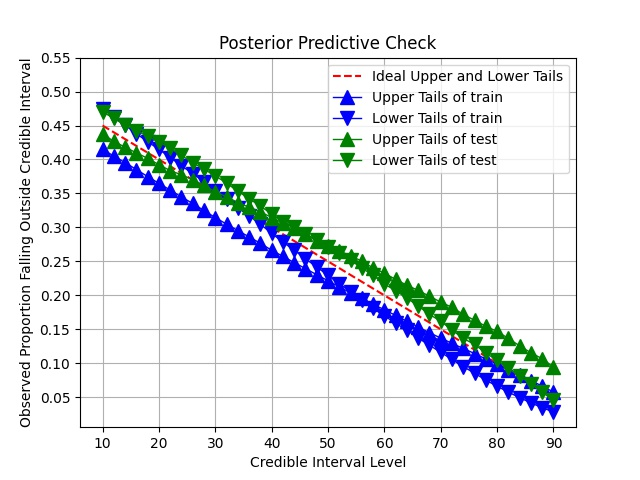
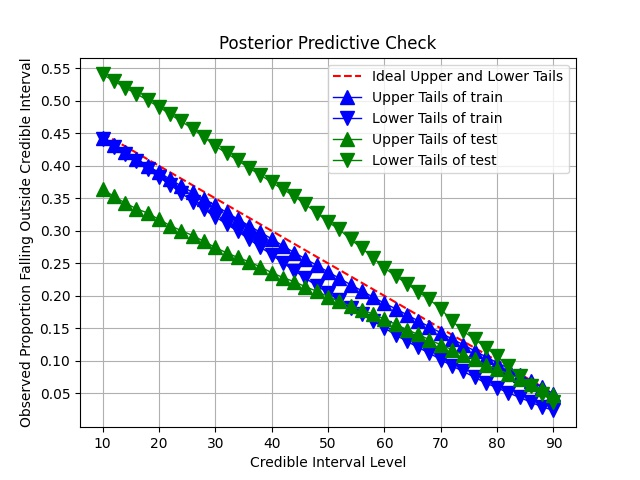
update

Changed region(s): [[0.0625, 0.0938, 0.9062, 0.875]]

diff --git a/project/main.py b/project/main.py
@@ -85,19 +85,27 @@ def run(fname,
                       mode='test')
     '''
 
-    test_forecast = multi_window.forecast(
-        model=feedback_model,
-        dataset_name='test',
-        samples=200
-    )
-
     train_forecast = multi_window.forecast(
         model=feedback_model,
         dataset_name='train',
         samples=200
     )
 
-    forecasts = [train_forecast, test_forecast]
+    val_forecast = multi_window.forecast(
+        model=feedback_model,
+        dataset_name='val',
+        samples=200
+    )
+
+    test_forecast = multi_window.forecast(
+        model=feedback_model,
+        dataset_name='test',
+        samples=200
+    )
+
+
+
+    forecasts = [train_forecast, test_forecast, val_forecast]
     post_checks = multi_window.plot_posterior_predictive_check(forecasts,
                                                                post_check_img)
 
@@ -107,12 +115,17 @@ def run(fname,
     '''
 
     multi_window.plot_global_forecast(
-        test_forecast,
+        train_forecast,
         save_path=global_save_img
     )
 
     multi_window.plot_global_forecast(
-        train_forecast,
+        val_forecast,
+        save_path=global_save_img
+    )
+
+    multi_window.plot_global_forecast(
+        test_forecast,
         save_path=global_save_img
     )
 
@@ -154,12 +167,12 @@ if __name__ == '__main__':
     t2v_units = 8
     dense_cells = 1
     resample = None
-    input_width = 90
-    out_steps = 30
+    input_width = 96
+    out_steps = 24
     max_epochs = 40
     patience = 3
-    latent_dim = None
-    beta = 1
+    latent_dim = 2
+    beta = 2
 
     run(fname,
         distribution,

diff --git a/project/WindowGenerator.py b/project/WindowGenerator.py
@@ -351,8 +351,6 @@ class WindowGenerator():
                          alpha=0.2,
                          label=f'Warmup Period')
 
-        # TODO: Make scatter plots look better
-
         # Plot resulting credible intervals
         plt.fill_between(x=ind_overlapping_index,
                          y1=lower_90,
@@ -366,7 +364,7 @@ class WindowGenerator():
                     y=original,
                     label='All Labels',
                     c='black',
-                    s=3)
+                    s=2)
 
         '''
         plt.plot(not_anomalies,
@@ -379,14 +377,13 @@ class WindowGenerator():
                     y=not_anomalies,
                     label='Labels within 90%',
                     c='green',
-                    s=5)
+                    s=3)
 
         plt.scatter(x=anomalies.index,
                     y=anomalies,
-                    edgecolors='k',
                     label='Anomalies outside 90%',
                     c='red',
-                    s=10)
+                    s=3)
 
         # Finally plot the mean
         plt.plot(ind_overlapping_index,
@@ -407,7 +404,6 @@ class WindowGenerator():
     @staticmethod
     def plot_posterior_predictive_check(forecasts, save_path):
         """Plot a posterior predictive check given forecasts"""
-        # TODO: Break this up into upper and lower
         uppers = np.arange(55, 96, 1)
         lowers = np.arange(45, 4, -1)
         ideal = ((100 - uppers) + lowers) / 100
